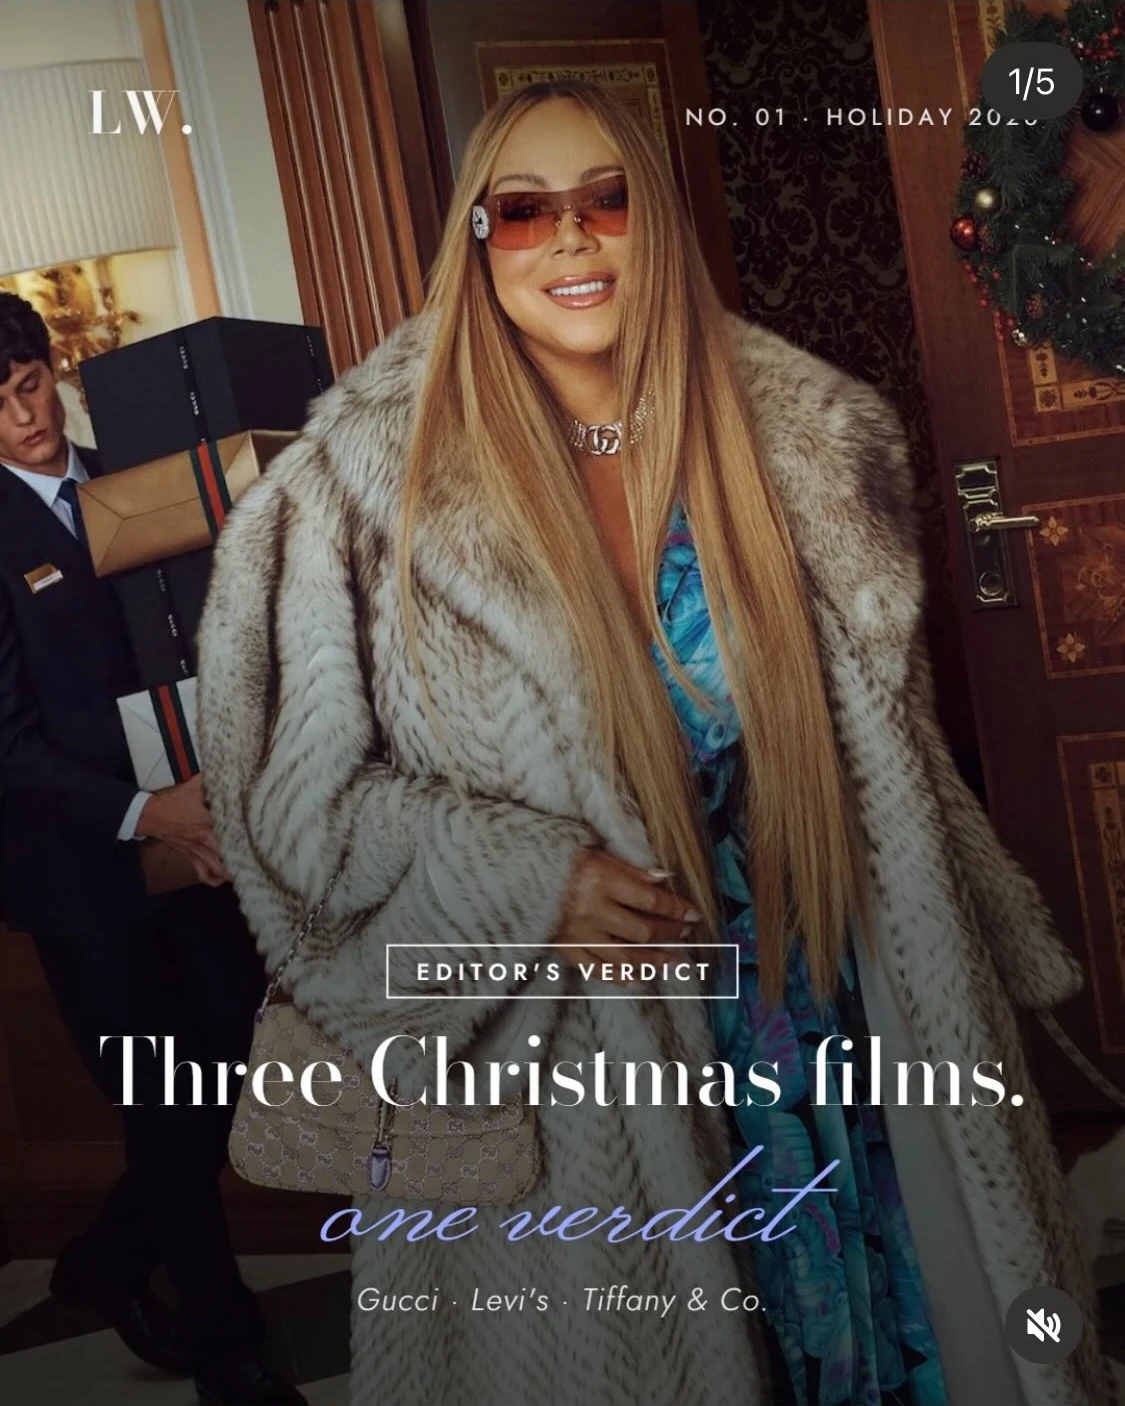
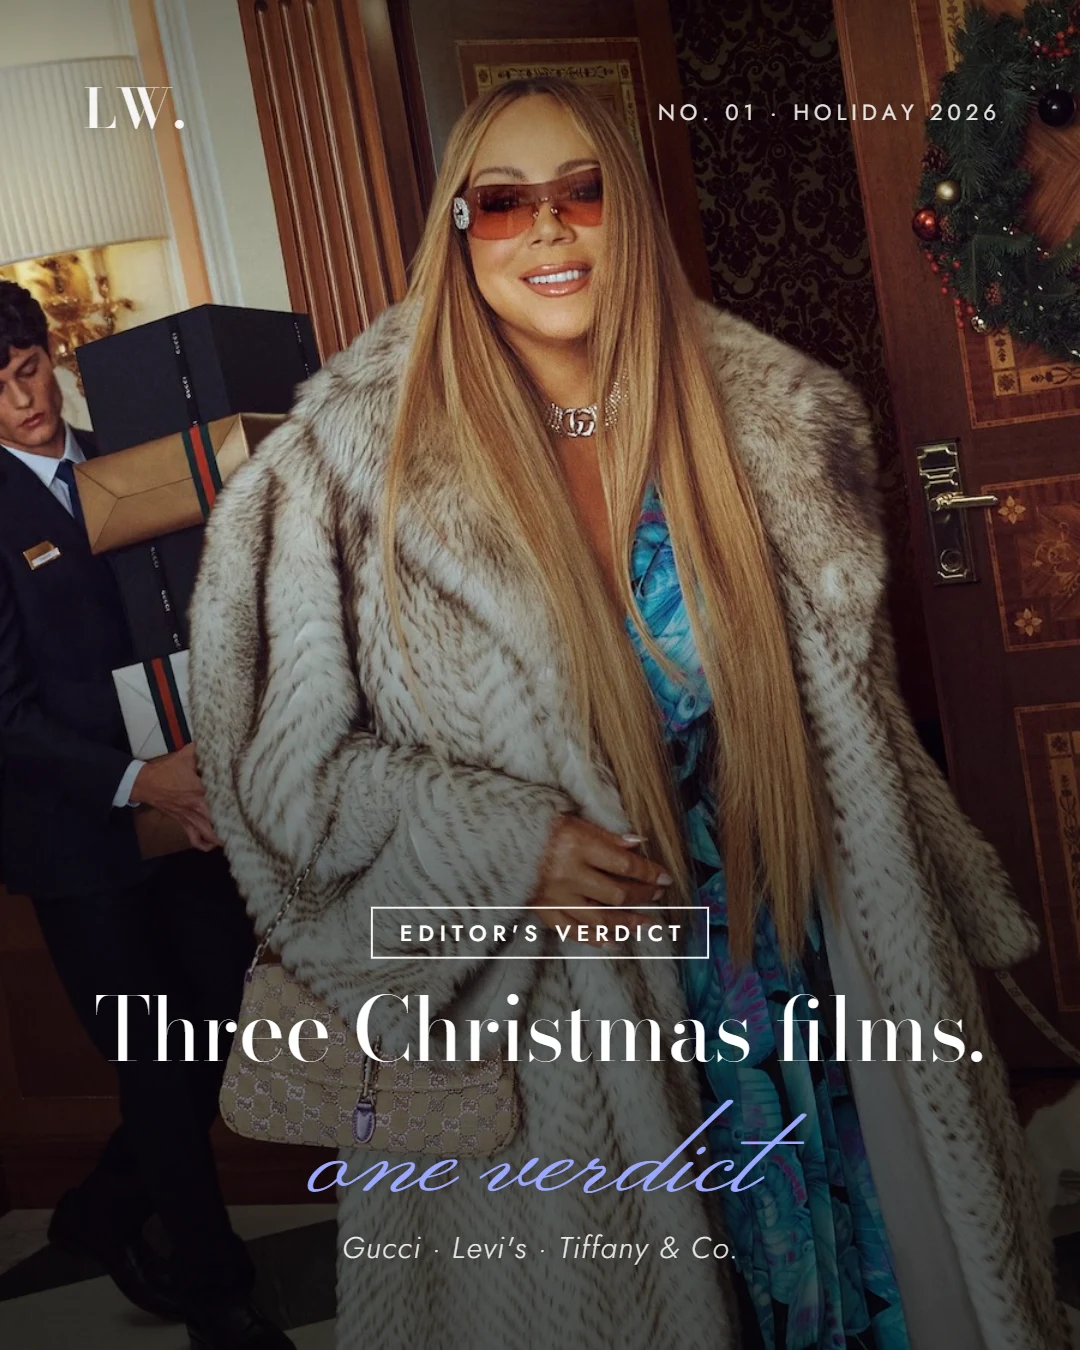
Lens & Words: carrusel completo de la publicación que marca la estética
Claude-Session: https://claude.ai/code/session_01QywfNuE4LmDupnT9ca1pGw

diff --git a/assets/css/style.css b/assets/css/style.css
@@ -399,9 +399,11 @@ body.is-switching main, body.is-switching .footer, body.is-switching .menu__inne
 .pd-gallery { margin: 72px var(--pad) 0; }
 .pd-gallery:empty { display: none; }
 .pd-gallery > .small { display: block; color: var(--garnet); margin-bottom: 22px; }
+.pd-gallery__intro { max-width: 60ch; margin: -8px 0 26px; color: var(--taupe); }
 .pd-gallery__grid { display: grid; grid-template-columns: repeat(2, 1fr); gap: 40px 32px; align-items: start; }
 .pd-gallery__grid.is-tall { grid-template-columns: repeat(3, 1fr); }
 .pd-gallery__grid.is-single { grid-template-columns: 1fr; max-width: 980px; }
+.pd-gallery__grid.is-tall.is-four { grid-template-columns: repeat(4, 1fr); gap: 32px 24px; }
 .pd-gallery figure img { width: 100%; height: auto; box-shadow: 0 24px 40px -30px rgba(23, 21, 19, .5); transition: opacity 1s var(--ease), filter 1.1s var(--ease), transform 1.4s var(--ease); }
 .pd-gallery figcaption { margin-top: 12px; }
 
@@ -423,7 +425,7 @@ body.is-switching main, body.is-switching .footer, body.is-switching .menu__inne
   .pd-hero__grid { grid-template-columns: 1fr; }
   .pd-story { grid-template-columns: 1fr; }
   .pd-story > div + div { padding-left: 0; border-left: 0; border-top: 1px solid var(--stone); }
-  .pd-gallery__grid.is-tall { grid-template-columns: repeat(2, 1fr); }
+  .pd-gallery__grid.is-tall, .pd-gallery__grid.is-tall.is-four { grid-template-columns: repeat(2, 1fr); }
 }
 @media (max-width: 640px) {
   .filters button { margin-right: 18px; padding-right: 0; }
@@ -432,7 +434,7 @@ body.is-switching main, body.is-switching .footer, body.is-switching .menu__inne
   .pd-hero__brand { font-size: 22vw; }
   .pd-sheet { grid-template-columns: 96px 1fr; }
   .pd-figures > div + div { padding-left: 0; border-left: 0; border-top: 1px solid var(--stone); }
-  .pd-gallery__grid, .pd-gallery__grid.is-tall { grid-template-columns: 1fr; }
+  .pd-gallery__grid, .pd-gallery__grid.is-tall, .pd-gallery__grid.is-tall.is-four { grid-template-columns: 1fr; }
   .pd-nav { grid-template-columns: 1fr; }
   .pd-nav a + a { text-align: left; border-left: 0; border-top: 1px solid var(--stone); padding-left: 0; }
 }

diff --git a/assets/js/main.js b/assets/js/main.js
@@ -195,10 +195,11 @@
     const g = p.gallery || [];
     fill('pd-gallery', g.length ? `
       <span class="small" data-reveal>${esc(tr(f.gallery))}</span>
+      ${p.gallery_intro ? `<p class="pd-gallery__intro" data-reveal>${esc(tr(p.gallery_intro))}</p>` : ''}
       <div class="pd-gallery__grid ${g.length === 1 ? 'is-single' : ''}" id="pd-ggrid">${g.map(x => `
         <figure data-reveal-img><img src="${esc(x.src)}" alt="${esc(tr(x.caption))}" loading="lazy"><figcaption class="small">${esc(tr(x.caption))}</figcaption></figure>`).join('')}</div>` : '');
     const gg = $('pd-ggrid');
-    if (gg) { const first = gg.querySelector('img'); const mark = () => { if (first.naturalWidth / first.naturalHeight < 1 && g.length > 1) gg.classList.add('is-tall'); }; first.complete ? mark() : first.addEventListener('load', mark); }
+    if (gg) { const first = gg.querySelector('img'); const mark = () => { if (first.naturalWidth / first.naturalHeight < 1 && g.length > 1) { gg.classList.add('is-tall'); if (g.length === 4) gg.classList.add('is-four'); } }; first.complete ? mark() : first.addEventListener('load', mark); }
 
     $('pd-note').textContent = tr(p.note) || '';
 
